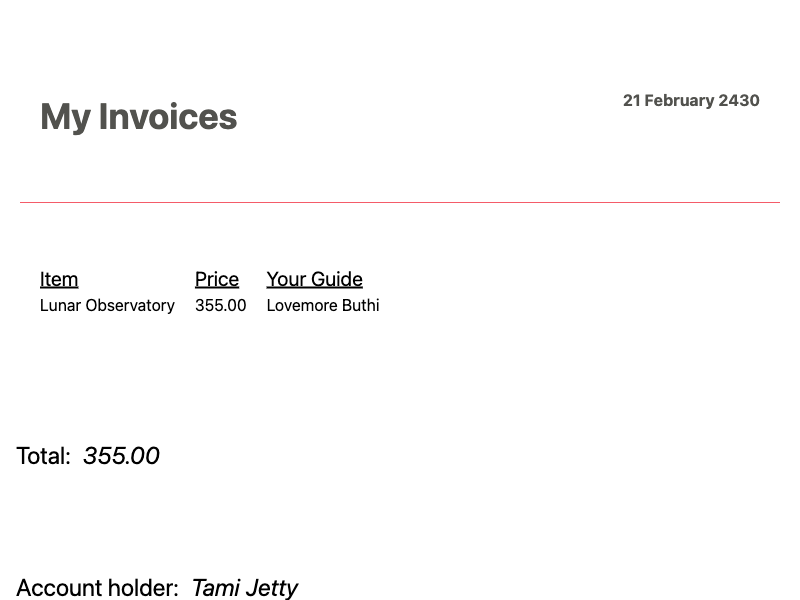
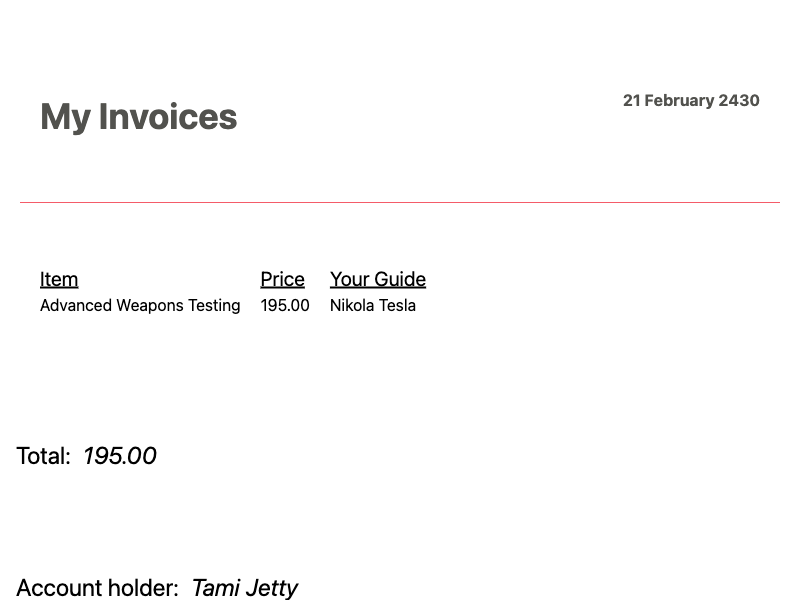
ficed centering

Changed region(s): [[0.0625, 0.45, 0.5312, 0.54], [0.0938, 0.72, 0.2188, 0.78]]

diff --git a/frontend/components/App.js b/frontend/components/App.js
@@ -1,6 +1,6 @@
 export default function App({ children }) {
   return (
-    <main>
+    <main className="flex justify-center">
       {children}
       <style jsx global>{`
         @tailwind base;
@@ -15,35 +15,6 @@ export default function App({ children }) {
         body {
           margin: 0;
           padding: 25px 50px;
-        }
-        a {
-          color: #22bad9;
-        }
-        p {
-          font-size: 14px;
-          line-height: 24px;
-        }
-        article {
-          margin: 0 auto;
-          max-width: 650px;
-        }
-        button {
-          align-items: center;
-          background-color: #22bad9;
-          border: 0;
-          color: white;
-          display: flex;
-          padding: 5px 7px;
-          transition: background-color 0.3s;
-        }
-        button:active {
-          background-color: #1b9db7;
-        }
-        button:disabled {
-          background-color: #b5bebf;
-        }
-        button:focus {
-          outline: none;
         }
       `}</style>
     </main>

diff --git a/frontend/components/TripList.js b/frontend/components/TripList.js
@@ -81,6 +81,9 @@ const TripList = ({ tripPayload }) => {
   if (!tripPayload) return <p>Unabale to render payload</p>;
   return (
     <div className="flex flex-col">
+      <div className="text-center ">
+        <h1 className="text-4xl text-black "> Generate Your Trip Invoices</h1>
+      </div>
       <InvoiceModal
         isModalOpen={isModalOpen}
         handleCancel={handleCancel}

diff --git a/frontend/pages/index.js b/frontend/pages/index.js
@@ -4,7 +4,6 @@ import listings from '../payloads/listings.json';
 const IndexPage = (props) => {
   return (
     <App>
-      <div className="text-4xl text-black"> Generate Your Trip Invoices</div>
       <TripList tripPayload={props.listings} />
     </App>
   );
